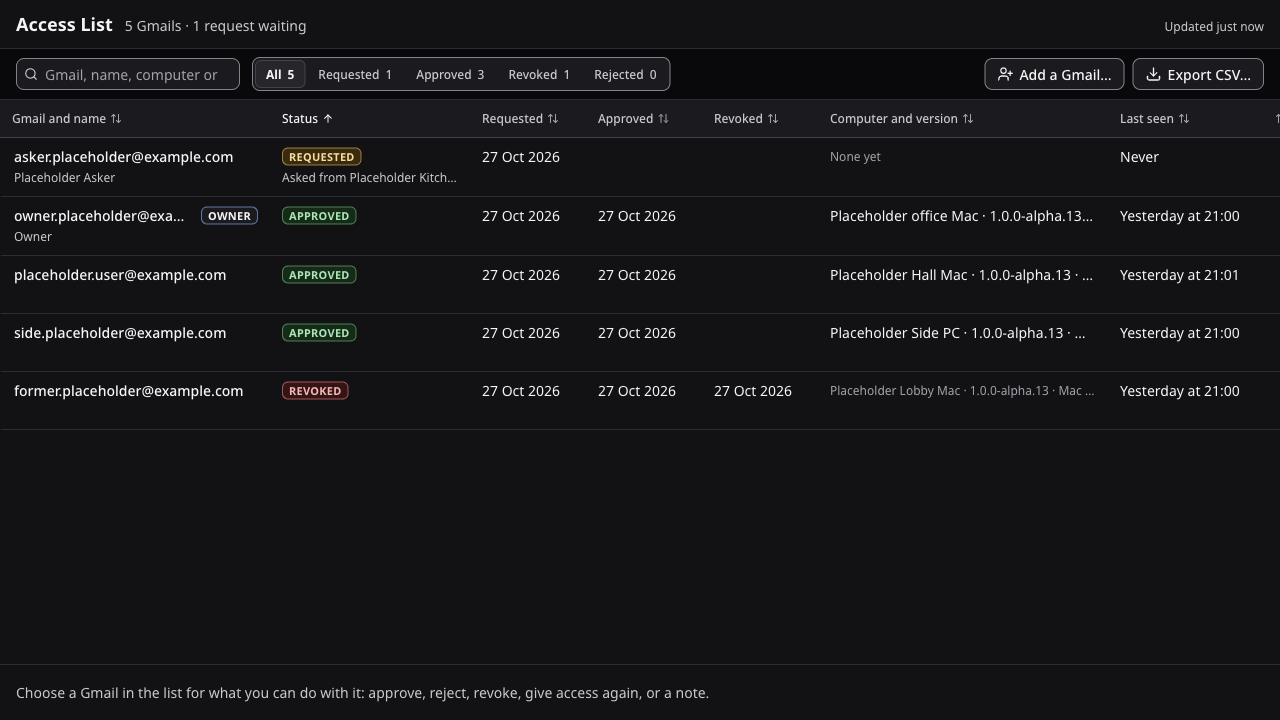
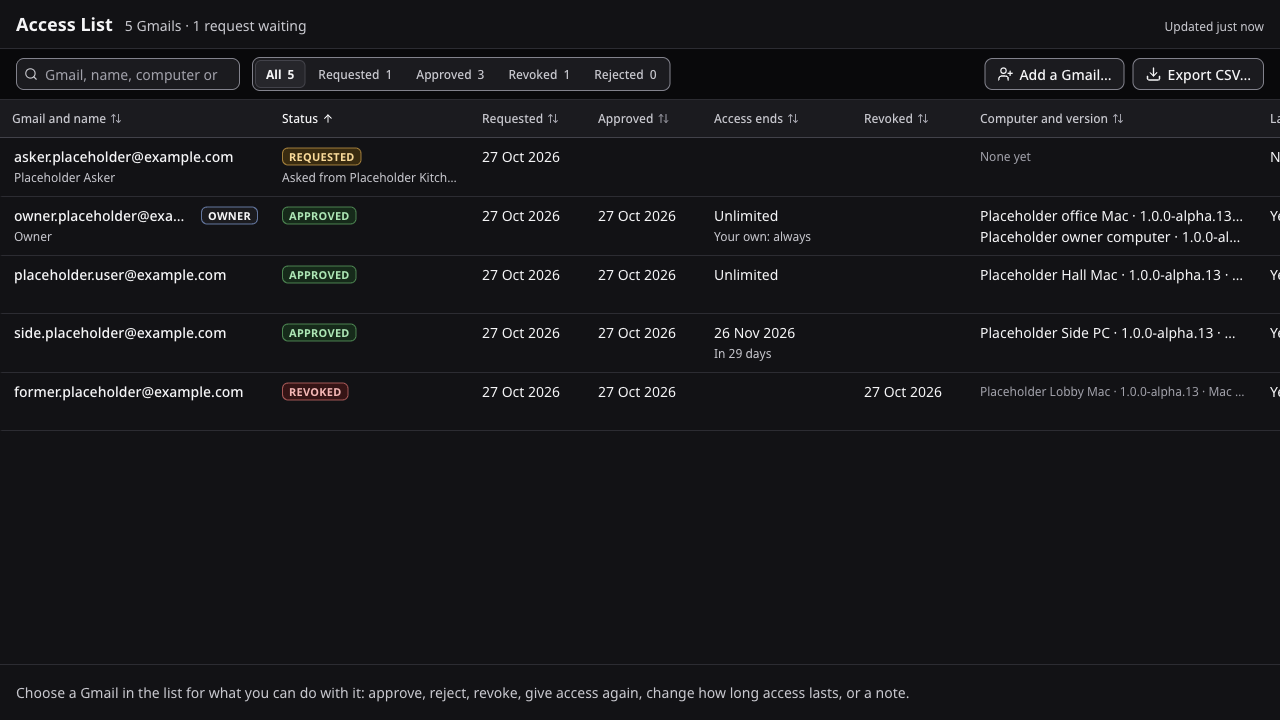
Release 1.0.0-alpha.13 (28 Oct 2026): the guide pictures taken again for how long access lasts and the hour without the internet: the bar saying when access ends (new, in the operator guide), the bar with no internet, and the Access List with its Access ends column and its Revoke question

diff --git a/tests/e2e/screenshots.spec.ts b/tests/e2e/screenshots.spec.ts
@@ -2550,8 +2550,8 @@ test('access by Gmail, the lock screen: Request Access with a placeholder Gmail,
   }
 });
 
-test('access by Gmail, live: the bar with no internet while the show goes on, then the stop once access is removed (Session 54)', async () => {
-  test.setTimeout(150_000);
+test('access by Gmail, live: the bar saying when access ends, the bar with no internet while the show goes on, then the stop once access is removed (Session 54)', async () => {
+  test.setTimeout(180_000);
   // A check every 6 s with 2 s to answer (test switches), and the stop an hour after the last answer, as it is.
   const { app, access: list } = await launchApp({
     DRASHTI_TEST_ACCESS_CHECK_MS: '6000',
@@ -2564,6 +2564,15 @@ test('access by Gmail, live: the bar with no internet while the show goes on, th
     await win.setViewportSize({ width: 1280, height: 720 });
     await operatorReady(win);
     await running(win);
+    // A length of a day from the owner (an operator's own computer, never a mandir one): the bar saying when access
+    // ends, at once, under the header; Unlimited again takes it away.
+    expect(ownerCall(list, 'length', { target: PLACEHOLDER_PERSON, length: 1 })).toMatchObject({ ok: true });
+    await expect(win.getByTestId('access-ends-notice')).toBeVisible({ timeout: 30_000 });
+    await shot(win, 'access-ends');
+    expect(ownerCall(list, 'length', { target: PLACEHOLDER_PERSON, length: 'unlimited' })).toMatchObject({
+      ok: true,
+    });
+    await expect(win.getByTestId('access-ends-notice')).toHaveCount(0, { timeout: 30_000 });
     // No answer from the list (as with no internet): the bar under the header, while the show goes on.
     stopAnswering(list);
     await expect(win.getByTestId('access-offline-notice')).toBeVisible({ timeout: 30_000 });

diff --git a/docs/operator-guide.md b/docs/operator-guide.md
@@ -208,6 +208,8 @@ If the single-letter keys are turned off (**Keys at a glance**, below), **B**, *
 
 **When your access ends.** Whoever approves access may give a Gmail access for a length of time (a mandir computer's is Unlimited, with no end). From 7 days before it ends (at once for a shorter length), a bar under the top bar says when: **Your access to Drashti ends on …**, with how long is left. It never covers a control. Ask whoever approves access for more time before then: the bar goes once they give it. When the time is up, Drashti stops as below, saying **Your access to Drashti has ended**; once they have given more time, start Drashti again.
 
+![The bar saying when access ends under the top bar, with how long is left](screenshots/access-ends.png)
+
 **Drashti has stopped everything.** If this computer's access is removed or has ended, or an hour without the internet runs out, Drashti stops at once, saying so in place of the controls (**Your access to Drashti has been removed**, **Your access to Drashti has ended**, or **Drashti stopped: no internet**): every screen fades to black, the stream and recording end, imports, conversions and downloads stop, the second computer and the phones stop too, and only **Quit Drashti** works. Once the screens have faded, a screen that covered the controls is turned off, so the message is always in view: switch it on again in **Screens** once Drashti is let in again. After an hour without the internet, quit, get the internet back and start Drashti again; otherwise tell whoever looks after Drashti. If the sabha must go on meanwhile, fall back to the old program (below).
 
 ![Drashti stopped: one message in place of the controls, and Quit Drashti](screenshots/access-stopped.png)
